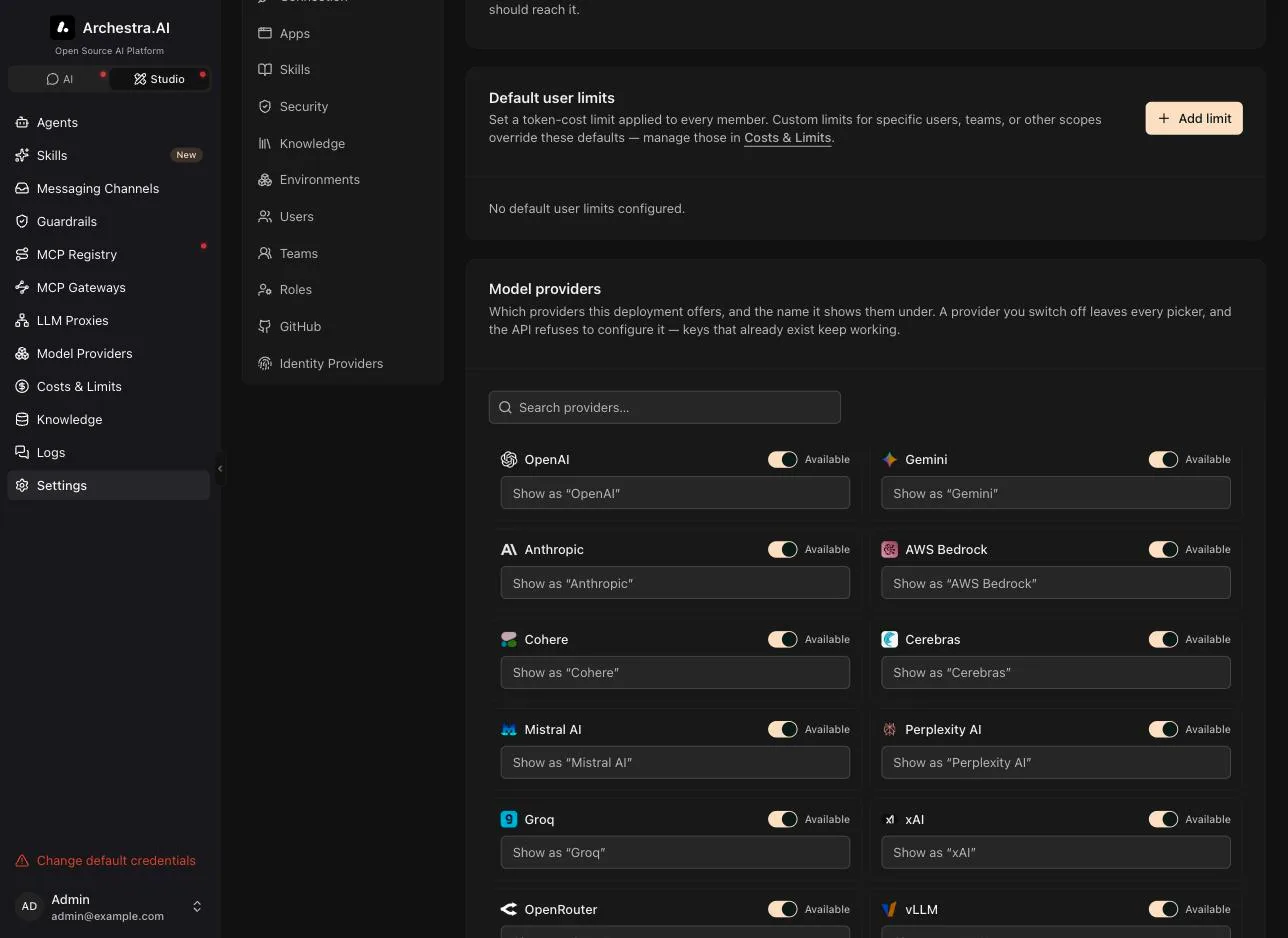
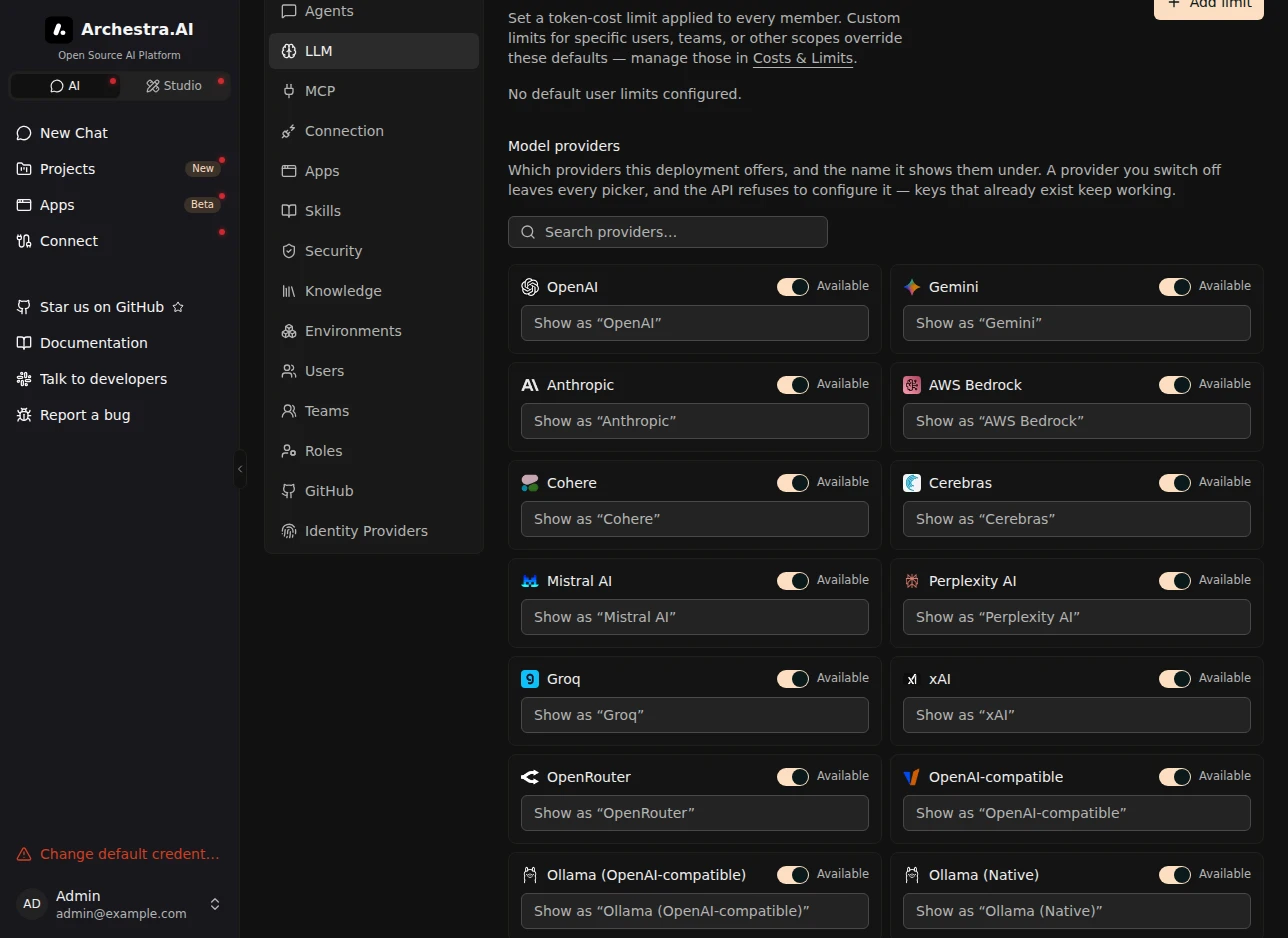
docs: document the OpenAI-compatible provider by the servers it serves
Rename the "vLLM" section to "OpenAI-Compatible Servers" and say up front which
servers connect through it, since the entry is now labelled for the path rather
than the engine. Update the deployment page's link and its
`ARCHESTRA_VLLM_BASE_URL` blurb, and retake the model-providers screenshot,
which showed the old label.

diff --git a/docs/pages/platform-supported-llm-providers.md b/docs/pages/platform-supported-llm-providers.md
@@ -3,7 +3,7 @@ title: Supported LLM Providers
 category: LLM Proxy
 order: 2
 description: LLM providers supported by Archestra Platform
-lastUpdated: 2026-08-21
+lastUpdated: 2026-08-25
 ---
 
 <!-- Renaming/deleting this file? Add a redirect in docs/redirects.json. -->
@@ -389,24 +389,26 @@ You can get an API key from the [Perplexity Settings](https://www.perplexity.ai/
 - **Search results**: `sonar` responses may include `search_results` and `citations` fields containing web search results used to generate the answer.
 - **Models**: Popular models include `sonar-pro` and `sonar-deep-research` for search, and `anthropic/claude-opus-5` for tool-using agents.
 
-## vLLM
+## OpenAI-Compatible Servers
 
-[vLLM](https://github.com/vllm-project/vllm) is an inference and serving engine for LLMs. Use it for self-hosted deployments to run open-source models on your own infrastructure.
+Any server that speaks the OpenAI `/v1` API connects through this provider. That covers [vLLM](https://github.com/vllm-project/vllm), llama.cpp, LM Studio, SGLang, TGI, and LocalAI. Use it for self-hosted deployments to run open-source models on your own infrastructure.
 
-### Supported vLLM APIs
+The provider is listed as **OpenAI-compatible**, and the picker's search finds it by the name of the server you run — type "LM Studio" and it comes up. Its id stays `vllm`, so existing keys, proxy routes, and environment variables are unchanged.
 
-- **Chat Completions API** (`/chat/completions`) - OpenAI-compatible
-- **Embeddings API** (`/embeddings`) - OpenAI-compatible
+### Supported APIs
 
-### vLLM Connection Details
+- **Chat Completions API** (`/chat/completions`)
+- **Embeddings API** (`/embeddings`)
+
+### Connection Details
 
 - **Base URL**: `http://localhost:9000/v1/vllm/{profile-id}`
-- **Authentication**: API key is **optional**. Pass in `Authorization` header as `Bearer <your-api-key>` if your vLLM deployment requires auth.
+- **Authentication**: API key is **optional**. Pass it in the `Authorization` header as `Bearer <your-api-key>` if your server requires auth.
 
 ### Setup
 
-1. Go to **Model Providers** and add a new key with provider **vLLM**
-2. Set the **Base URL** to your vLLM server (e.g., `http://your-vllm-host:8000/v1`)
+1. Go to **Model Providers** and add a new key with provider **OpenAI-compatible**
+2. Set the **Base URL** to your server (e.g., `http://your-host:8000/v1`)
 3. API key can be left blank for most self-hosted deployments
 
 Every model the server lists is added, so one entry covers a server that hosts several models — a router in front of a fleet, for example.
@@ -415,22 +417,22 @@ The base URL can also be set globally via the `ARCHESTRA_VLLM_BASE_URL` environm
 
 ### Serving Several Models
 
-`vllm serve` runs one model per process. Hosting a second model means running a second server on its own URL.
+`vllm serve` runs one model per process. Hosting a second model means running a second server on its own URL. llama.cpp and LM Studio work the same way.
 
-Add each server as its own vLLM entry. The models from every server appear together under the vLLM provider, and each request goes to the server that hosts the chosen model — so an agent pinned to one server still runs a model that lives on another.
+Add each server as its own entry. The models from every server appear together under the provider, and each request goes to the server that hosts the chosen model — so an agent pinned to one server still runs a model that lives on another.
 
 ### Environment Variables
 
-| Variable                      | Required | Description                                                                    |
-| ----------------------------- | -------- | ------------------------------------------------------------------------------ |
-| `ARCHESTRA_VLLM_BASE_URL`     | Yes      | vLLM server base URL (e.g., `http://localhost:8000/v1` or your vLLM endpoint)  |
-| `ARCHESTRA_CHAT_VLLM_API_KEY` | No       | API key for vLLM server (optional, many deployments don't require auth) |
+| Variable                      | Required | Description                                                             |
+| ----------------------------- | -------- | ----------------------------------------------------------------------- |
+| `ARCHESTRA_VLLM_BASE_URL`     | Yes      | Server base URL (e.g., `http://localhost:8000/v1`)                      |
+| `ARCHESTRA_CHAT_VLLM_API_KEY` | No       | API key for the server (optional, many deployments don't require auth)  |
 
 ### Important Notes
 
-- **Configure base URL to enable vLLM**: The vLLM provider is only available when `ARCHESTRA_VLLM_BASE_URL` is set or a per-key base URL is configured in the UI. Without either, vLLM won't appear as an option.
-- **Auto-seeding needs the base URL**: Setting `ARCHESTRA_CHAT_VLLM_API_KEY` alone does not create a vLLM key at startup. `ARCHESTRA_VLLM_BASE_URL` must also be set, otherwise the provider is skipped (a key without a base URL would silently route to the public OpenAI endpoint).
-- **No API key required for most deployments**: Unlike cloud providers, self-hosted vLLM typically doesn't require authentication. When adding a vLLM key in the platform, the API key field is marked as optional.
+- **Configure base URL to enable the provider**: It is only available when `ARCHESTRA_VLLM_BASE_URL` is set or a per-key base URL is configured in the UI. Without either, it won't appear as an option.
+- **Auto-seeding needs the base URL**: Setting `ARCHESTRA_CHAT_VLLM_API_KEY` alone does not create a key at startup. `ARCHESTRA_VLLM_BASE_URL` must also be set, otherwise the provider is skipped (a key without a base URL would silently route to the public OpenAI endpoint).
+- **No API key required for most deployments**: Unlike cloud providers, a self-hosted server typically doesn't require authentication. When adding a key in the platform, the API key field is marked as optional.
 
 ## Ollama
 

diff --git a/docs/pages/platform-deployment.md b/docs/pages/platform-deployment.md
@@ -1090,10 +1090,10 @@ These environment variables set the default base URL for each LLM provider. Per-
   - Default: `https://openrouter.ai/api/v1`
   - Use this to point to your own proxy, an OpenRouter-compatible API, or other custom endpoints
 
-- **`ARCHESTRA_VLLM_BASE_URL`** - Base URL for your vLLM server.
-  - Required to enable vLLM provider support
+- **`ARCHESTRA_VLLM_BASE_URL`** - Base URL for your OpenAI-compatible server (vLLM, llama.cpp, LM Studio, SGLang, TGI, LocalAI).
+  - Required to enable the OpenAI-compatible provider
   - Example: `http://localhost:8000/v1` (standard vLLM)
-  - See: [vLLM setup guide](/docs/platform-supported-llm-providers#vllm)
+  - See: [OpenAI-compatible setup guide](/docs/platform-supported-llm-providers#openai-compatible-servers)
 
 - **`ARCHESTRA_OLLAMA_BASE_URL`** - Base URL for your Ollama server.
   - Default: `http://localhost:11434/v1` (Ollama is enabled by default)
